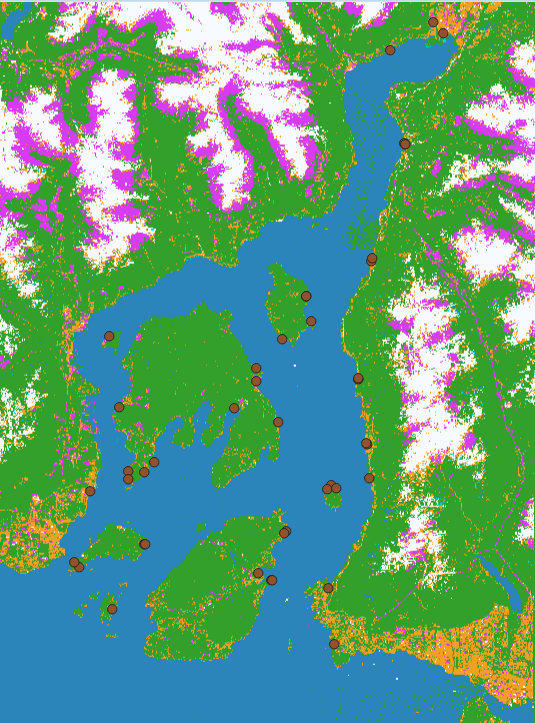
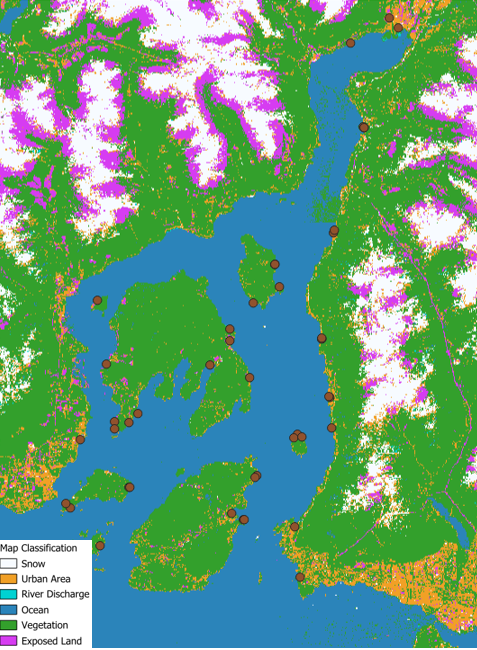
Howe Sound complete1

diff --git a/Howe_Sound.html b/Howe_Sound.html
@@ -7,7 +7,7 @@
 <meta name="viewport" content="width=device-width, initial-scale=1.0, user-scalable=yes">
 
 
-<title>Tyler Zhang - Howe Sound</title>
+<title>Tyler Zhang - Debris Hotspot Analysis in Howe Sound BC</title>
 <style>
 code{white-space: pre-wrap;}
 span.smallcaps{font-variant: small-caps;}
@@ -125,7 +125,7 @@ ul.task-list li input[type="checkbox"] {
 
 <header id="title-block-header" class="quarto-title-block default">
 <div class="quarto-title">
-<h1 class="title">Howe Sound</h1>
+<h1 class="title">Debris Hotspot Analysis in Howe Sound BC</h1>
 </div>
 
 
@@ -142,10 +142,15 @@ ul.task-list li input[type="checkbox"] {
 </header>
 
 
-<section id="project-1---capstone-deliverables" class="level1">
-<h1>Project 1 - Capstone Deliverables</h1>
+<section id="section" class="level2">
+<h2 class="anchored" data-anchor-id="section"></h2>
+<p><span style="font-size: 22px;"><span style="margin-right: 30px;"></span> Marine debris poses significant environmental and infrastructural risks, yet no studies have predicted debris accumulation patterns in Howe Sound. This research uses supervised classification of satellite imagery to analyze common landcover features of existing debris hotspots and develops a simulation model incorporating wind and river discharge as debris driving forces to predict future debris movement. By mapping debris pathways and identifying high-risk zones, this study aims to support conservation efforts and improve debris management strategies in the region.</span><br></p>
+</section>
+<section id="method" class="level2">
+<h2 class="anchored" data-anchor-id="method">Method</h2>
+<p><span style="font-size: 22px;"><span style="margin-right: 30px;"></span> Multi-band satellite images at 20m resolution obtained from Copernicus were merged into a true-color composite raster image in ArcGIS Pro. Training data for six landcover types—vegetation, ocean water, river discharge, urban area, snow, and exposed rocks were manually created. The Maximum Likelihood Classification (MLC) and neural network algorithm were then applied to classify each pixel based on spectral characteristics.</span><br></p>
 <!-- Container for the side-by-side slider -->
-<div id="comparison-slider" style="width: 80%; max-width: 800px; margin: auto;">
+<div id="comparison-slider-1" style="width: 80%; max-width: 800px; margin: auto;">
 
 </div>
 <!-- Load JuxtaposeJS for the sliding effect -->
@@ -153,7 +158,38 @@ ul.task-list li input[type="checkbox"] {
 <script src="https://cdn.knightlab.com/libs/juxtapose/latest/js/juxtapose.js"></script>
 <!-- Initialize the comparison slider -->
 <script>
-  new juxtapose.JXSlider('#comparison-slider', [
+  new juxtapose.JXSlider('#comparison-slider-1', [
+    {
+      src: 'images/Winter_Unclassified.png',
+      label: 'Winter'
+    },
+    {
+      src: 'images/Summer_Unclassified.png',
+      label: 'Summer'
+    }
+  ], {
+    animate: true,
+    showLabels: true,
+    showCredits: false,
+    startingPosition: "50%"
+  });
+</script>
+<p><span style="font-size: 25px;"><em>Fig 1. Satellite images of Howe Sound on a winter and summer day at 10m resolution.</em></span><br></p>
+<p><span style="font-size: 22px;"><span style="margin-right: 30px;"></span>To predict future debris hotspots, a debris movement simulation model will be developed using a Howe Sound cartographic shapefile. The model will incorporate wind and river discharge as driving forces to visualize debris transport. Based on surface water variations Howe Sound will be divided into three sections: Northern Howe Sound (Squamish to Britannia Beach), Central Howe Sound (Britannia Beach to Anvil Island), and Southern Howe Sound (South Anvil Island to the Strait of Georgia). This division will help refine debris transport predictions.</span><br></p>
+</section>
+<section id="result" class="level2">
+<h2 class="anchored" data-anchor-id="result">Result</h2>
+<p><span style="font-size: 22px;"><span style="margin-right: 30px;"></span> Figure 2 shows the classified maps of the Howe Sound study area, highlighting reduced snow cover in summer and lower river discharge in winter. These patterns suggest that river discharge drives debris accumulation in northern and central Howe Sound only during summer. Additionally, debris hotspots are primarily concentrated in urban areas, likely due to the reliance on local resident reports for identification. </span><br></p>
+<!-- Container for the side-by-side slider -->
+<div id="comparison-slider-2" style="width: 80%; max-width: 800px; margin: auto;">
+
+</div>
+<!-- Load JuxtaposeJS for the sliding effect -->
+<link rel="stylesheet" href="https://cdn.knightlab.com/libs/juxtapose/latest/css/juxtapose.css">
+<script src="https://cdn.knightlab.com/libs/juxtapose/latest/js/juxtapose.js"></script>
+<!-- Initialize the comparison slider -->
+<script>
+  new juxtapose.JXSlider('#comparison-slider-2', [
     {
       src: 'images/Winter_Classified.png',
       label: 'Winter'
@@ -169,6 +205,7 @@ ul.task-list li input[type="checkbox"] {
     startingPosition: "50%"
   });
 </script>
+<p><span style="font-size: 25px;"><em>Fig 2. Supervised classification map comparing satellite images of Howe Sound on a winter and summer day.</em></span><br><br><br><br><br></p>
 
 
 </section>
